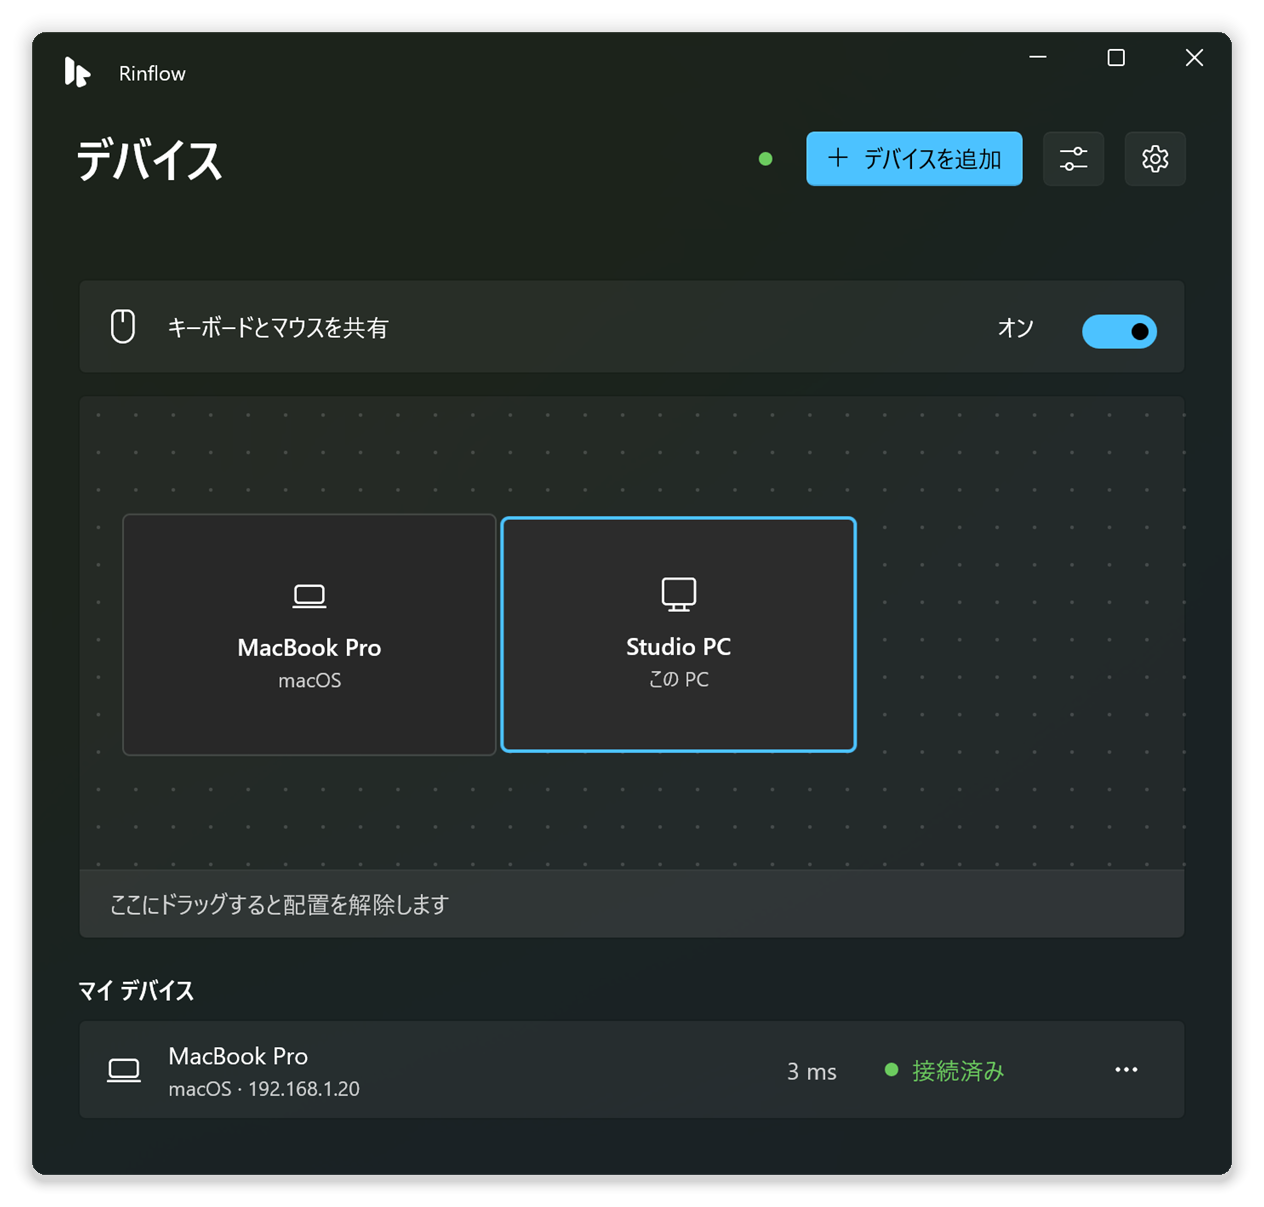
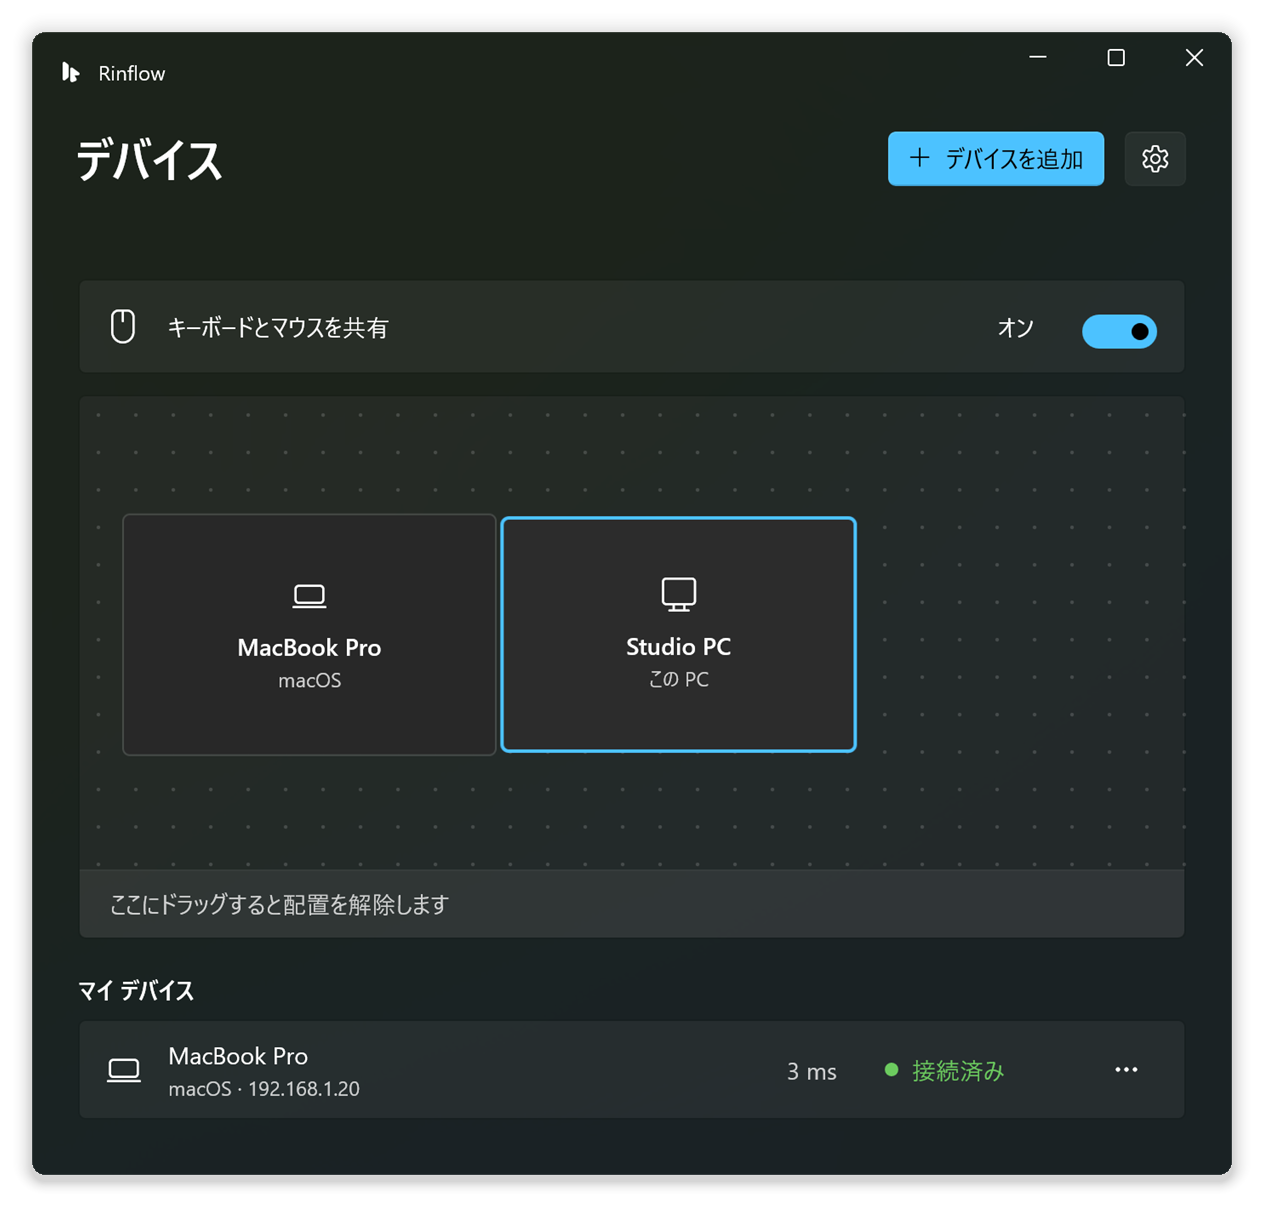
feat: implement EffectDemo feature for edge animation tuning page and update localization resources

Changed region(s): [[0.5862, 0.092, 0.8948, 0.1533], [0.0617, 0.0307, 0.1234, 0.092], [0.0309, 0.0307, 0.0617, 0.0613]]

diff --git a/app/MainWindow.xaml b/app/MainWindow.xaml
@@ -150,12 +150,13 @@
                 Grid.Column="1"
                 Padding="16,0,0,0"
                 Background="Transparent"
-                ColumnSpacing="12">
+                ColumnSpacing="8">
                 <Grid.ColumnDefinitions>
                     <ColumnDefinition Width="Auto" />
                     <ColumnDefinition Width="*" />
                 </Grid.ColumnDefinitions>
-                <Image Width="24" Height="24" VerticalAlignment="Center" Stretch="Uniform" Source="{ThemeResource AppLogo}" AutomationProperties.AccessibilityView="Raw" />
+                <!-- 16 x 16, as Windows 11 title bars, close to the title. -->
+                <Image Width="16" Height="16" VerticalAlignment="Center" Stretch="Uniform" Source="{ThemeResource AppLogo}" AutomationProperties.AccessibilityView="Raw" />
                 <TextBlock
                     Grid.Column="1"
                     VerticalAlignment="Center"
@@ -185,25 +186,6 @@
                             VerticalAlignment="Center"
                             Orientation="Horizontal"
                             Spacing="12">
-                            <!-- Connection status: grey, or green while a
-                                 device is connected; the tooltip says more. -->
-                            <Grid
-                                x:Name="StatusIndicator"
-                                Margin="0,0,4,0"
-                                Padding="4"
-                                VerticalAlignment="Center"
-                                Background="Transparent">
-                                <Ellipse
-                                    Width="8"
-                                    Height="8"
-                                    Fill="{ThemeResource ControlStrongStrokeColorDisabledBrush}" />
-                                <Ellipse
-                                    x:Name="StatusDotConnected"
-                                    Width="8"
-                                    Height="8"
-                                    Fill="{ThemeResource SystemFillColorSuccessBrush}"
-                                    Visibility="Collapsed" />
-                            </Grid>
                             <Button
                                 x:Name="AddDeviceButton"
                                 x:Uid="AddDeviceButton" AutomationProperties.Name="添加设备"
@@ -213,8 +195,8 @@
                                     <TextBlock x:Uid="AddDeviceLabel" Text="添加设备" />
                                 </StackPanel>
                             </Button>
-                            <!-- The edge animation's tuning page exists in
-                                 development builds only. -->
+                            <!-- The edge animation's tuning page: only in
+                                 builds with EffectDemo (docs/building.md). -->
                             <Button
                                 x:Name="EffectButton"
                                 AutomationProperties.Name="动画效果（开发版）"

diff --git a/app/MainWindow.xaml.cpp b/app/MainWindow.xaml.cpp
@@ -25,11 +25,12 @@ using namespace winrt::Windows::Data::Json;
 
 namespace
 {
-#if defined(_DEBUG)
-    // The edge animation is a development aid; release builds leave it out.
-    constexpr bool DevelopmentBuild = true;
+#if defined(RINFLOW_EFFECT_DEMO)
+    // The edge animation's tuning page, a development aid: only in builds
+    // with EffectDemo (on in Debug by default; setup never has it).
+    constexpr bool EffectDemo = true;
 #else
-    constexpr bool DevelopmentBuild = false;
+    constexpr bool EffectDemo = false;
 #endif
 
     // What a row shows, to skip rebuilding rows that did not change. The
@@ -156,7 +157,7 @@ namespace winrt::Rinflow::implementation
         {
             if (auto self = weak.get()) self->ShowPage(Page::Settings);
         });
-        EffectButton().Visibility(DevelopmentBuild ? Visibility::Visible : Visibility::Collapsed);
+        EffectButton().Visibility(EffectDemo ? Visibility::Visible : Visibility::Collapsed);
         EffectButton().Click([weak](auto&&, auto&&)
         {
             if (auto self = weak.get()) self->ShowPage(Page::Effect);
@@ -193,7 +194,7 @@ namespace winrt::Rinflow::implementation
         };
         show(DevicesPage(), page == Page::Devices);
         show(SettingsPage(), page == Page::Settings);
-        show(EffectPage(), page == Page::Effect && DevelopmentBuild);
+        show(EffectPage(), page == Page::Effect && EffectDemo);
         show(BackButton(), page != Page::Devices);
         if (page == Page::Devices && m_layoutDirty && !m_drag && !m_settling)
         {
@@ -393,18 +394,9 @@ namespace winrt::Rinflow::implementation
     {
         m_model = RinflowApp::DeviceModel::FromState(state);
         m_connectedPeerIds.clear();
-        hstring controller;
-        size_t connected = 0;
-        bool connecting = false;
         for (auto const& device : m_model.mine)
         {
-            if (device.connected)
-            {
-                m_connectedPeerIds.insert(std::wstring(device.id));
-                ++connected;
-                if (device.controlling) controller = device.name;
-            }
-            connecting = connecting || device.connecting;
+            if (device.connected) m_connectedPeerIds.insert(std::wstring(device.id));
         }
 
         std::vector<Rinflow::PeerItem> rows;
@@ -416,22 +408,6 @@ namespace winrt::Rinflow::implementation
         for (auto const& device : m_model.nearby) nearby.push_back(RinflowApp::NearbyRow(device));
         UpdateRows(m_nearby, nearby);
         NearbyEmptyPanel().Visibility(nearby.empty() ? Visibility::Visible : Visibility::Collapsed);
-
-        // The dot by 添加设备: green while connected; the tooltip says more.
-        StatusDotConnected().Visibility(connected > 0 ? Visibility::Visible : Visibility::Collapsed);
-        hstring status;
-        if (!controller.empty()) status = RinflowApp::Format(L"StatusControlledBy", std::wstring(controller));
-        else if (connected == 1) status = RinflowApp::Text(L"StatusOneConnected");
-        else if (connected > 1) status = RinflowApp::Format(L"StatusManyConnected", connected);
-        else if (connecting) status = RinflowApp::Text(L"StatusConnecting");
-        else
-        {
-            auto core = state.GetNamedString(L"core", L"starting");
-            status = core == L"running" ? RinflowApp::Text(L"StatusSearching")
-                : core == L"stopped" ? RinflowApp::Text(L"StatusCoreStopped")
-                : RinflowApp::Text(L"StatusStarting");
-        }
-        ToolTipService::SetToolTip(StatusIndicator(), box_value(status));
     }
 
     void MainWindow::ApplyTheme(hstring const& theme)
@@ -457,8 +433,6 @@ namespace winrt::Rinflow::implementation
     {
         if (!linked)
         {
-            ToolTipService::SetToolTip(StatusIndicator(), box_value(RinflowApp::Text(L"StatusAgentConnecting")));
-            StatusDotConnected().Visibility(Visibility::Collapsed);
             m_devices.Clear();
             m_nearby.Clear();
             m_connectedPeerIds.clear();

diff --git a/docs/building.md b/docs/building.md
@@ -38,7 +38,10 @@ cd rinflow-windows
 .\build.cmd -Configuration Release
 .\build.cmd -Platform ARM64              # needs: rustup target add aarch64-pc-windows-msvc
 .\build.cmd -SkipAgent                   # the WinUI app only
+.\build.cmd -EffectDemo On               # with the edge animation page, also in Release
 ```
+
+The edge animation page (a tool for tuning the push-through effect) and its button are in Debug builds and not in Release builds; `-EffectDemo On` or `Off` overrides that. The setup program never has it: [build-installer.ps1](../installer/build-installer.ps1) builds with `-EffectDemo Off`.
 
 [build.cmd](../build.cmd) runs [build.ps1](../build.ps1) without changing the PowerShell execution policy. The script:
 

diff --git a/docs/design.md b/docs/design.md
@@ -67,7 +67,7 @@ app/
   MainWindow.Arrangement.cpp the arrangement canvas: to-scale screens, dragging, the strip of unplaced devices
   MainWindow.Settings.cpp    the 设置 page and the lock-shortcut dialog
   MainWindow.Pairing.cpp     the 配对 dialog (the pairing code)
-  MainWindow.Effect.cpp      the edge animation page (development builds only)
+  MainWindow.Effect.cpp      the edge animation page (builds with EffectDemo only)
   TrayWindow.xaml(.cpp)      the tray panel (acrylic, closes when it loses focus)
   DeviceModel.{h,cpp}        the user's / nearby devices from the agent's snapshot, and their rows
   AgentClient.{h,cpp}        named-pipe client; starts the agent if needed
